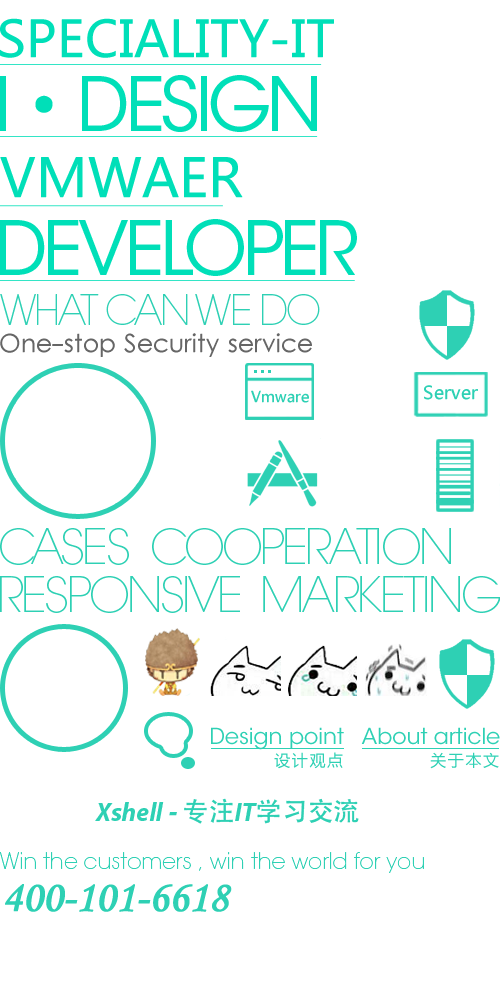
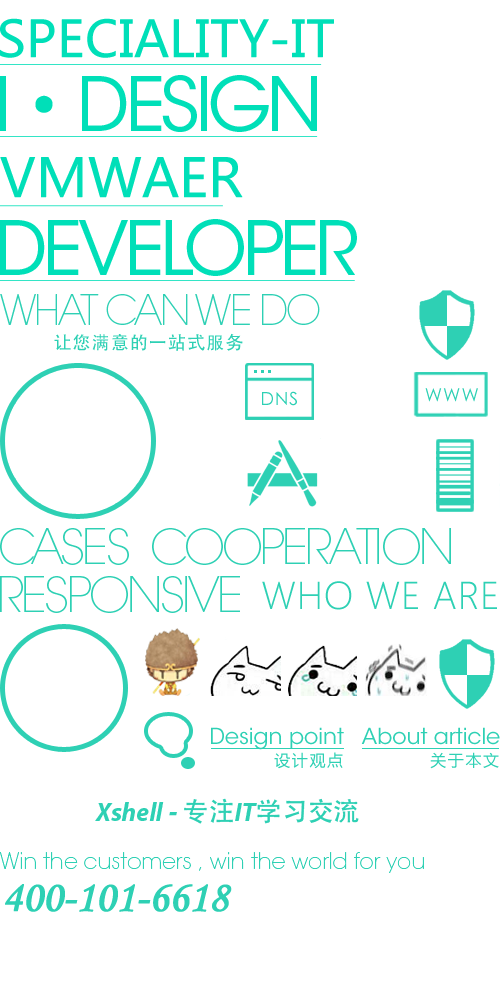
fix some err,add pic of founder,liu and sai come on

Changed region(s): [[0.0, 0.31, 0.63, 0.403], [0.51, 0.558, 1.0, 0.62], [0.84, 0.372, 0.96, 0.403]]

diff --git a/css/index.css b/css/index.css
@@ -1944,15 +1944,16 @@ section.marketing {
     opacity: 1;
   }
 }
-.marketing .box ul.items li.se i {
+
+.marketing .box ul.items li.haowei i {
     width: 110px;
     height: 110px;
-    background: url(../images/jaso.jpg) no-repeat; 
+    background: url(../images/haowei.jpg) no-repeat; 
     border-radius: 50%;
     /*background: #000;*/
     
 }
-.marketing .box ul.items li.se:hover i{
+.marketing .box ul.items li.haowei:hover i{
     box-shadow: 0 0 10px rgba(0,0,0,.5);
     -webkit-animation: rotateIn 1.5s;
     animation: rotateIn 1.5s;
@@ -1961,15 +1962,70 @@ section.marketing {
     -o-transition: all .5s linear;
     transition: all .5s linear;
 }
-.marketing .box ul.items li.weixin i {
+
+.marketing .box ul.items li.lcx i {
+    width: 110px;
+    height: 110px;
+    background: url(../images/lcx.jpg) no-repeat; 
+    border-radius: 50%;
+    /*background: #000;*/
+    
+}
+.marketing .box ul.items li.lcx:hover i{
+    box-shadow: 0 0 10px rgba(0,0,0,.5);
+    -webkit-animation: rotateIn 1.5s;
+    animation: rotateIn 1.5s;
+
+    -webkit-transition: all .5s linear;
+    -o-transition: all .5s linear;
+    transition: all .5s linear;
+}
+
+.marketing .box ul.items li.an i {
+    width: 110px;
+    height: 110px;
+    background: url(../images/an.jpg) no-repeat; 
+    border-radius: 50%;
+    /*background: #000;*/
+    
+}
+.marketing .box ul.items li.an:hover i{
+    box-shadow: 0 0 10px rgba(0,0,0,.5);
+    -webkit-animation: rotateIn 1.5s;
+    animation: rotateIn 1.5s;
+
+    -webkit-transition: all .5s linear;
+    -o-transition: all .5s linear;
+    transition: all .5s linear;
+}
+
+
+.marketing .box ul.items li.laoqi i {
+    width: 110px;
+    height: 110px;
+    background: url(../images/laoqi.jpg) no-repeat; 
+    border-radius: 50%;
+    /*background: #000;*/
+    
+}
+.marketing .box ul.items li.laoqi:hover i{
+    box-shadow: 0 0 10px rgba(0,0,0,.5);
+    -webkit-animation: rotateIn 1.5s;
+    animation: rotateIn 1.5s;
+
+    -webkit-transition: all .5s linear;
+    -o-transition: all .5s linear;
+    transition: all .5s linear;
+}
+.marketing .box ul.items li.sai i {
     width: 110px;
     height: 110px;
    
     /*background: #000;*/
-    background: url(../images/Axhello.png) no-repeat; 
+    background: url(../images/sai.jpg) no-repeat; 
     border-radius: 50%;
 }
-.marketing .box ul.items li.weixin:hover i{
+.marketing .box ul.items li.sai:hover i{
     box-shadow: 0 0 10px rgba(0,0,0,.5);
     -webkit-animation: rotateIn 1.5s;
     animation: rotateIn 1.5s;
@@ -1978,14 +2034,58 @@ section.marketing {
     -o-transition: all .5s linear;
     transition: all .5s linear;
 }
-.marketing .box ul.items li.weibo i {
-    width: 68px;
-    background: url(../images/words.png) no-repeat -288px -630px;
+.marketing .box ul.items li.liu:hover i{
+    box-shadow: 0 0 10px rgba(0,0,0,.5);
+    -webkit-animation: rotateIn 1.5s;
+    animation: rotateIn 1.5s;
+
+    -webkit-transition: all .5s linear;
+    -o-transition: all .5s linear;
+    transition: all .5s linear;
+}
+.marketing .box ul.items li.liu i {
+    width: 110px;
+    height: 110px;
+   
+    /*background: #000;*/
+    background: url(../images/liu.jpg) no-repeat; 
+    border-radius: 50%;
 }
 
-.marketing .box ul.items li.sms i {
-    width: 61px;
-    background: url(../images/words.png) no-repeat -366px -628px;
+.marketing .box ul.items li.qist i {
+    width: 110px;
+    height: 110px;
+    background: url(../images/qist.jpg) no-repeat; 
+    border-radius: 50%;
+    /*background: #000;*/
+    
+}
+.marketing .box ul.items li.qist:hover i{
+    box-shadow: 0 0 10px rgba(0,0,0,.5);
+    -webkit-animation: rotateIn 1.5s;
+    animation: rotateIn 1.5s;
+
+    -webkit-transition: all .5s linear;
+    -o-transition: all .5s linear;
+    transition: all .5s linear;
+}
+
+.marketing .box ul.items li.napolin i {
+    width: 110px;
+    height: 110px;
+    background: url(../images/napolin.jpg) no-repeat; 
+    border-radius: 50%;
+    /*background: #000;*/
+    
+}
+.marketing .box ul.items li.napolin:hover i{
+    box-shadow: 0 0 10px rgba(0,0,0,.5);
+    -webkit-animation: rotateIn 1.5s;
+    animation: rotateIn 1.5s;
+
+    -webkit-transition: all .5s linear;
+    -o-transition: all .5s linear;
+    transition: all .5s linear;
 }
 
 .marketing .box ul.items li.pay i {

diff --git a/index.html b/index.html
@@ -4,14 +4,10 @@
 	<meta charset="UTF-8" />
 	<title>上海比特萌信息技术有限公司 - 官网首页</title>
 	<meta name="keywords" content="上海比特萌信息技术有限公司,比特萌,信息技术,php,html,css" />
-	<!--<meta name="description" content="" />-->
 	<meta name="viewport" content="width=device-width,initial-scale=1.0,maximum-scale=1.0,minimum-scale=1.0,user-scalable=no" />
 	<meta name="copyright" content="版权所有 © 2015 上海比特萌信息技术有限公司。 保留所有权利。" />
 	<link href="css/bootstrap.min.css" rel="stylesheet" />
 	<link href="css/index.css" rel="stylesheet" />
-	<!--[if lt IE 9]>
-	<script src="js/html5shiv.min.js"></script>
-	<![endif]-->
 	<script src="js/jquery.min.js"></script>
 	<script src="js/index.min.js"></script>
 </head>
@@ -20,12 +16,12 @@
 		<div class="logo">
 			<img src="images/logo.png" alt="上海比特萌信息技术有限公司 - 官网首页" class="img-responsive" />
 		</div>
-		<strong class="words">上海比特萌信息技术</strong>
+		<!---strong class="words">上海比特萌信息技术</strong-->
 		<nav class="menu">
 			<ul class="list-inline">
 				<li class="active">
 					<a>首页</a></li>
-				<li><a>经营理念</a></li>
+				<li><a>主营业务</a></li>
 				<li><a>经典案例</a></li>
 				<li><a>服务客户</a></li>
 				<li><a>团队成员</a></li>
@@ -95,24 +91,20 @@
 			</div>
 		<ul class="items list-inline">
 			<li class="pc">
-				<i></i><strong>VMWARE</strong>
-				<p>服务器、桌面、应用虚拟化<br/>虚拟化安全解决方案学习</p>
-			</li>
-			<li class="mobi">
-				<i></i><strong>Web安全</strong>
-				<p>安全爱好者<br/>社会工程学<br/>渗透入侵学习</p>
-			</li>
-			<li class="sys">
-				<i></i><strong>服务器、存储</strong>
-				<p>Linux学习<br/>服务器安全与存储</p>
-			</li>
-			<li class="app">
-				<i></i><strong>web开发、优化</strong>
-				<p>PHP、Java、Html5+Css3<br/>Seo、Sem<br/>等学习计划</p>
+				<i></i><strong>域名解析</strong>
+				<p>实时监控，有效抵御DNS攻击<br/>专业精神，值得信赖的基础服务</p>
 			</li>
 			<li class="host">
-				<i></i><strong>网络-机房</strong>
-				<p>网络基础机构、网络安全<br/>机房建设/机房改造</p>
+				<i></i><strong>云服务器</strong>
+				<p>高性能高稳定的云虚拟机<br/>满足您多种用途</p>
+			</li>
+			<li class="sys">
+				<i></i><strong>域名注册</strong>
+				<p>轻松选择域名<br/>一站式解决注册</p>
+			</li>
+			<li class="app">
+				<i></i><strong>教育邮箱</strong>
+				<p>轻松注册教育邮箱<br/></p>
 			</li>
 		</ul>
 	</div>
@@ -203,21 +195,39 @@
 				<br class="clear" />
 			</div>
 			<ul class="items list-inline">
-			<li class="se">
-				<i></i><strong>Jasho</strong>
-				<p>扯淡心理学专家<br/>社会工程学研究者</p>
+			<li class="laoqi">
+				<i></i><strong>XiaoQi</strong>
+				<p>Bitemoe联合创始人<br/>资深运维专家</p>
 			</li>
-			<li class="weixin">
-				<i></i><strong>Axhello</strong>
-				<p>网络爱好者<br/>web前端开发人员<br/></p>
+			<li class="sai">
+				<i></i><strong>Sai</strong>
+				<p>Web前端工程师</p>
 			</li>
-			<li class="pay">
-				<i></i><strong>起司</strong>
-				<p>虚位以待<br/>虚位以待</p>
+			<li class="liu">
+				<i></i><strong>Liu</strong>
+				<p>Web前端工程师</p>
 			</li>
-			<li class="bbs">
-				<i></i><strong>虚位以待</strong>
-				<p>虚位以待<br/>虚位以待</p>
+			<li class="qist">
+				<i></i><strong>Qist</strong>
+				<p>硬件工程师<br/>软件工程师</p>
+			</li>
+			</ul>
+			<ul class="items list-inline">
+			<li class="napolin">
+				<i></i><strong>nApolin</strong>
+				<p>软件工程师<br/>财务出纳</p>
+			</li>
+			<li class="lcx">
+				<i></i><strong>LCX</strong>
+				<p>未知职位</p>
+			</li>
+			<li class="an">
+				<i></i><strong>An</strong>
+				<p>未知职位</p>
+			</li>
+			<li class="haowei">
+				<i></i><strong>HaoWei</strong>
+				<p>未知职位</p>
 			</li>
 		</ul>
 	</div>
